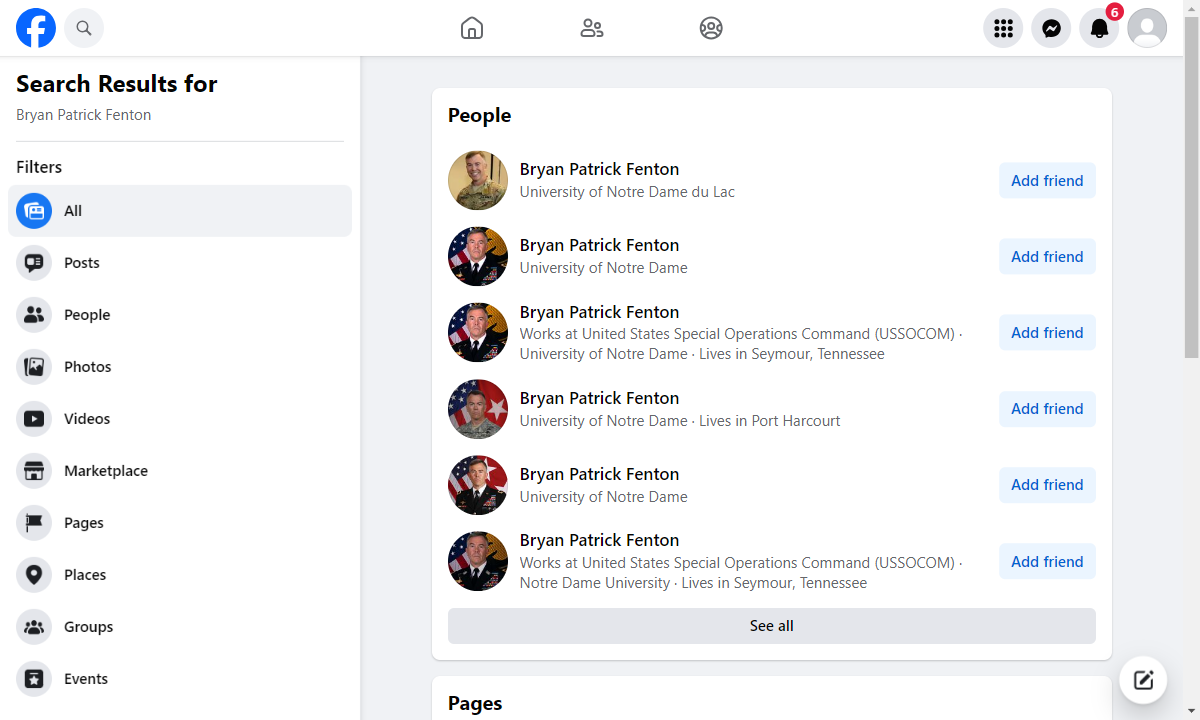
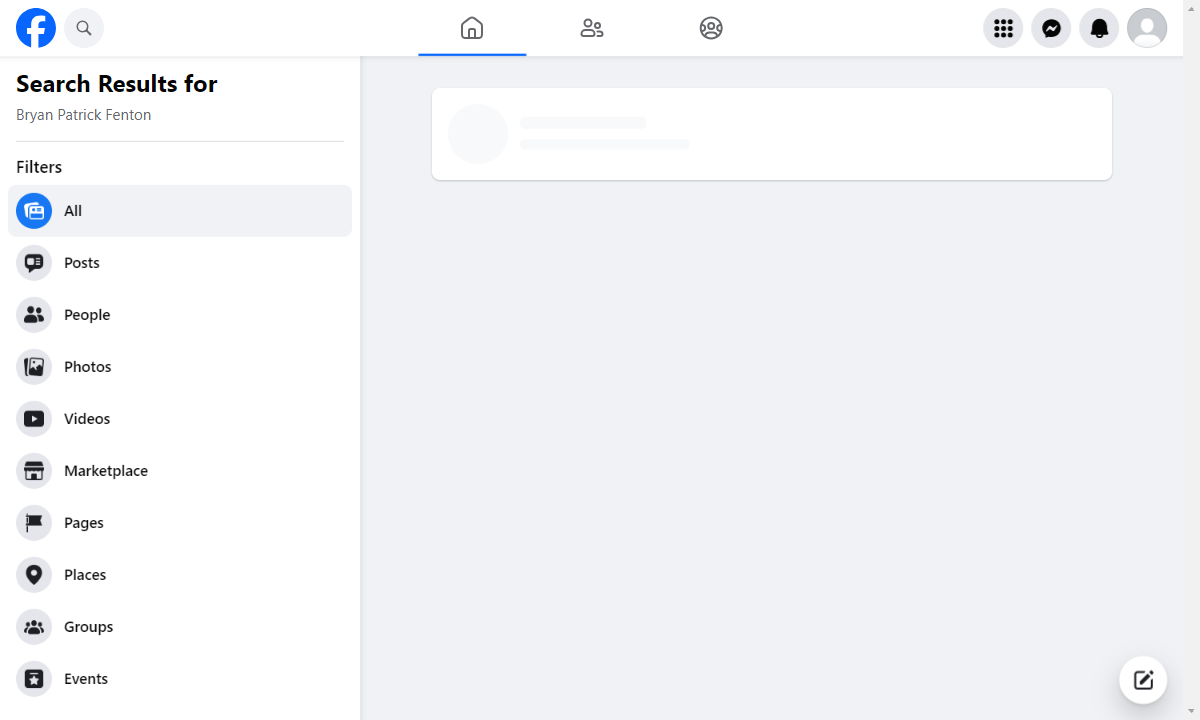
Fixed env issue and added delays

diff --git a/src/facebook-monitor.js b/src/facebook-monitor.js
@@ -8,7 +8,7 @@ const hours = 1; // Example: run every hour
 // Process user and pass from env
 const user = process.env.USER_NAME;
 const pass = process.env.PASSWORD;
-const searchName = process.SEARCH_INPUT;
+const searchName = process.env.SEARCH_INPUT;
 
 // Facebook Login url
 const facebook_url = "https://www.facebook.com/login";
@@ -27,6 +27,7 @@ async function loadPage(){
         defaultViewport: null, // Set viewpot to null
         timeout: 0, // Set to 0  for no timeout (not reccomended for production change later)
         //args: ['--no-startup-window'],
+        //args: ['--disable-features=site-per-process'], //used for error frame detached
     });
     const context = browser.defaultBrowserContext();
     context.overridePermissions(facebook_url, ["geolocation", "notifications"]);
@@ -248,15 +249,33 @@ async function collectAccountData(page){
 
 async function run () {
     var page = await loadPage();
+
+    // Sign In Function
     await signIn(page);
-    await searchInput(page);
-    await clickPeople(page);
-    await scrollPageToBottom(page);
 
     // Add a delay of 3 seconds (3000 milliseconds)
     await new Promise(resolve => setTimeout(resolve, 5000));
 
-    await collectAccountData(page);
+    // Search Input Function
+    await searchInput(page);
+
+    // Add a delay of 3 seconds (3000 milliseconds)
+    await new Promise(resolve => setTimeout(resolve, 5000));
+
+    // Click People Function
+    //await clickPeople(page);
+
+    // Add a delay of 3 seconds (3000 milliseconds)
+    //await new Promise(resolve => setTimeout(resolve, 5000));
+
+    // Scroll Function
+    //await scrollPageToBottom(page);
+
+    // Add a delay of 3 seconds (3000 milliseconds)
+    //await new Promise(resolve => setTimeout(resolve, 5000));
+
+    // Collect Account Data Function
+    //await collectAccountData(page);
 
 }
 
